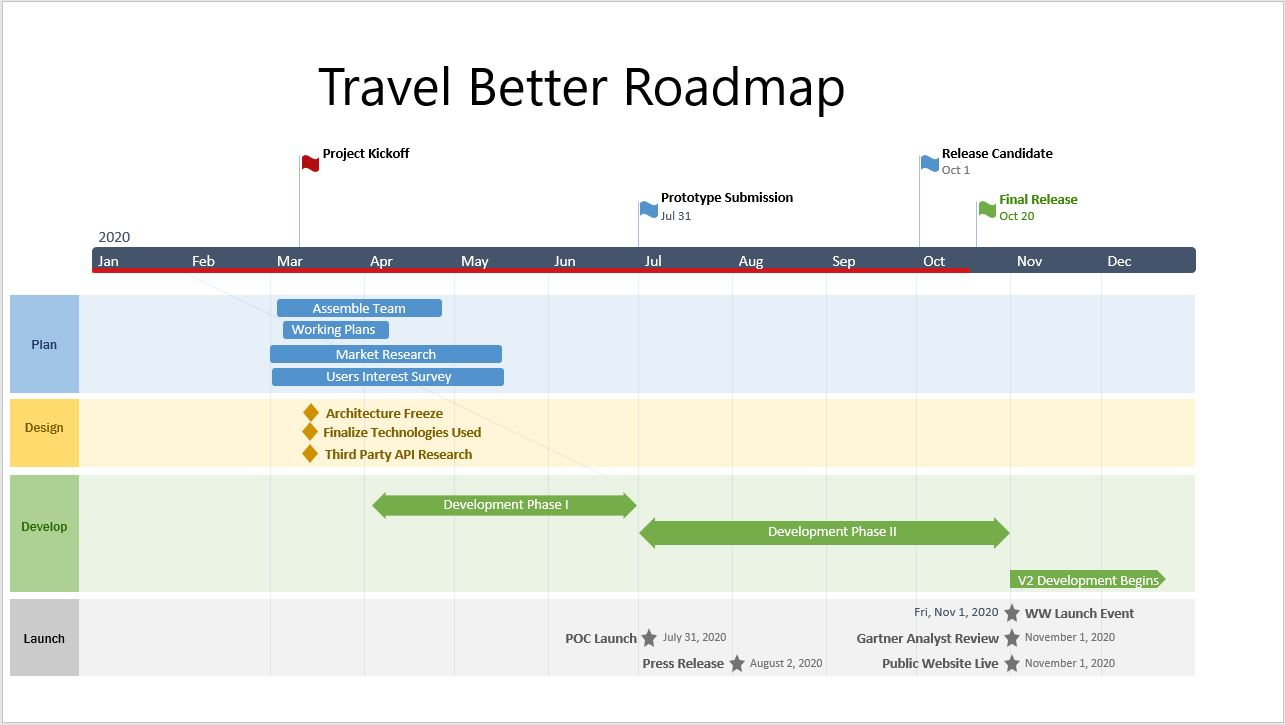
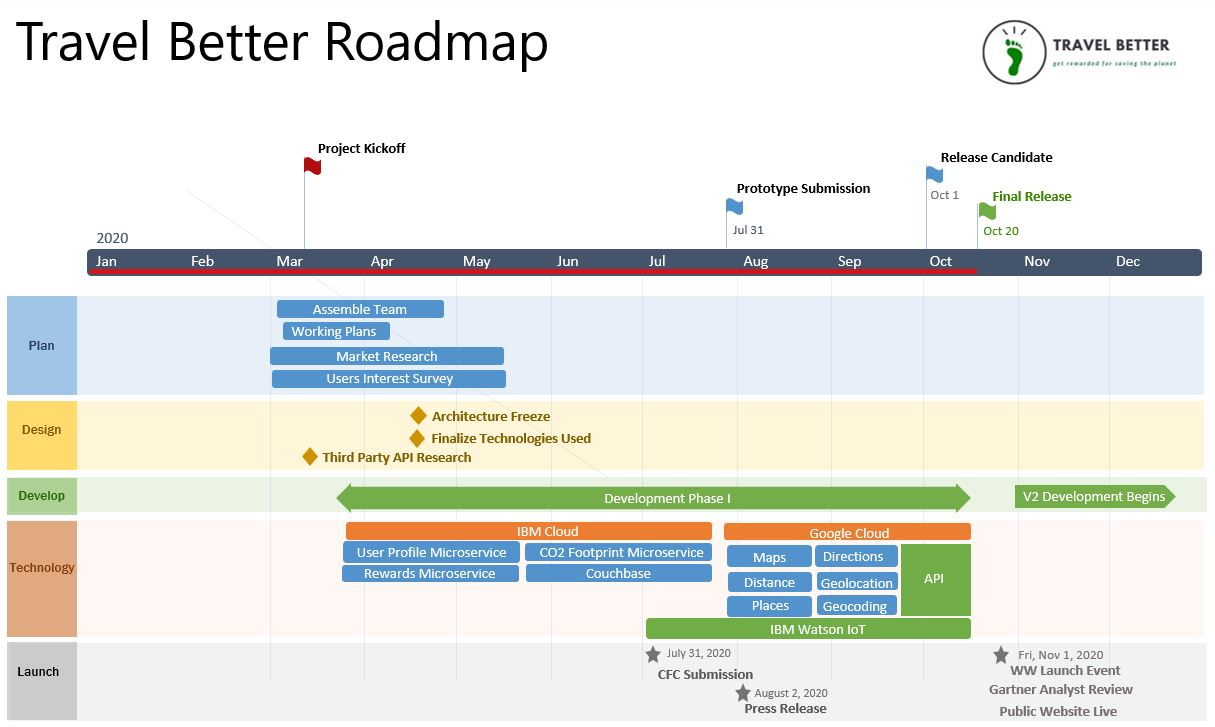
Remove unwanted files

diff --git a/README.md b/README.md
@@ -11,14 +11,11 @@ A basic GitHub repository example for Call for Code submissions and those projec
 1. [Short description](#short-description)
 1. [Demo video](#demo-video)
 1. [The architecture](#the-architecture)
-1. [Sequence Diagram](#sequence-diagram)
 1. [Long description](#long-description)
 1. [Project roadmap](#project-roadmap)
 1. [Getting started](#getting-started)
 1. [Running the tests](#running-the-tests)
-1. [Live demo](#live-demo)
 1. [Built with](#built-with)
-1. [Contributing](#contributing)
 1. [Versioning](#versioning)
 1. [Authors](#authors)
 1. [License](#license)
@@ -68,6 +65,7 @@ These instructions will get you a copy of the project up and running on your loc
 
 ### Setting up the development environment
 
+**Front End**
 Please run the following commands from your computer's terminal/powershell.
 
 ```bash
@@ -79,6 +77,15 @@ npm i -g expo-cli
 npm i -g react-native-cli
 ```
 Install Visual Studio Code IDE to inspect and run the code. You can find more detailed instruction from here: https://www.youtube.com/watch?v=0-S5a0eXPoc ()
+
+**Back End**
+Install maven from https://maven.apache.org/install.html
+
+Create account with IBM Cloud.
+
+Install IBM CLI (Refer to https://cloud.ibm.com/docs/cli?topic=cli-getting-started#overview)
+
+Provision a CouchDB instance using Cloudant (Refer to https://cloud.ibm.com/docs/Cloudant?topic=Cloudant-creating-an-ibm-cloudant-instance-on-ibm-cloud)
 
 ### Get your own Google API Key
 
@@ -98,6 +105,7 @@ The app requires the following Google APIs to be activated:
 
 Clone this repository and open the directory in VSCocde as a react-native project. Open Terminal from the menu of VSCode. In the terminal interface, please run the following commands (on the project root directory). 
 
+**Front End**
 ```
 # Initiate the project as an expo compatible react-native project
 expo init
@@ -106,6 +114,13 @@ yarn
 ```
 
 End with an example of getting some data out of the system or using it for a little demo
+
+**Back End**
+Modify /user-module/src/main/resources/application.properties with your Cloundant instance details.
+
+Navigate to user-module and perform **mvn clean install**
+
+After clean build, run main class /user-module/src/main/java/com/callforcode/travelbetter/TravelBetterApplication.java
 
 ## Testing the Application on iOS/Android
 
@@ -122,14 +137,8 @@ The latest command will run the project and will open a new tab in your browser 
 
 ### Testing the API using Swagger
 
-[PREETI's WORK]
-Explain what these tests test and why, if you were using something like `mocha` for instance
+Access swagger using http://localhost:8080/swagger-ui.html , after back end application is up and running on local system.
 
-```bash
-npm install mocha --save-dev
-vi test/test.js
-./node_modules/mocha/bin/mocha
-```
 
 ### And coding style tests
 
@@ -141,16 +150,12 @@ npx eslint --init
 npx eslint sample-file.js
 ```
 
-## Live demo
-
-You can find a running system to test at [callforcode.mybluemix.net](http://callforcode.mybluemix.net/)
-
 ## Built with
 
 * [IBM Cloudant](https://cloud.ibm.com/catalog?search=cloudant#search_results) - The NoSQL database used
 * [IBM Cloud Functions](https://cloud.ibm.com/catalog?search=cloud%20functions#search_results) - The compute platform for handing logic
-* [IBM API Connect](https://cloud.ibm.com/catalog?search=api%20connect#search_results) - The web framework used
-* [Dropwizard](http://www.dropwizard.io/1.0.2/docs/) - The web framework used
+* [React Native](https://reactnative.dev/) - The ios/android app framework used
+* [Google APIs](https://developers.google.com/apis-explorer)
 * [Maven](https://maven.apache.org/) - Dependency management
 * [Springboot](https://start.spring.io/) - Used to generate backend user , activity CRUD APIs
 
@@ -170,13 +175,10 @@ We use [SemVer](http://semver.org/) for versioning. For the versions available, 
 * **Preeti Gupta**
 * **Rakib Shahriar**
 
-
-See also the list of [contributors](https://github.com/Code-and-Response/Project-Sample/graphs/contributors) who participated in this project.
-
 ## License
 
 This project is licensed under the Apache 2 License - see the [LICENSE](LICENSE) file for details
 
 ## Acknowledgments
 
-* Based on [Billie Thompson's README template](https://gist.github.com/PurpleBooth/109311bb0361f32d87a2).
+* Thanks to IBM Mentors for helping us through **TravelBetter** journey. Special shout out to Jean-Georges Perrin, Shari Chiara for being available and resolving issues quickly.
